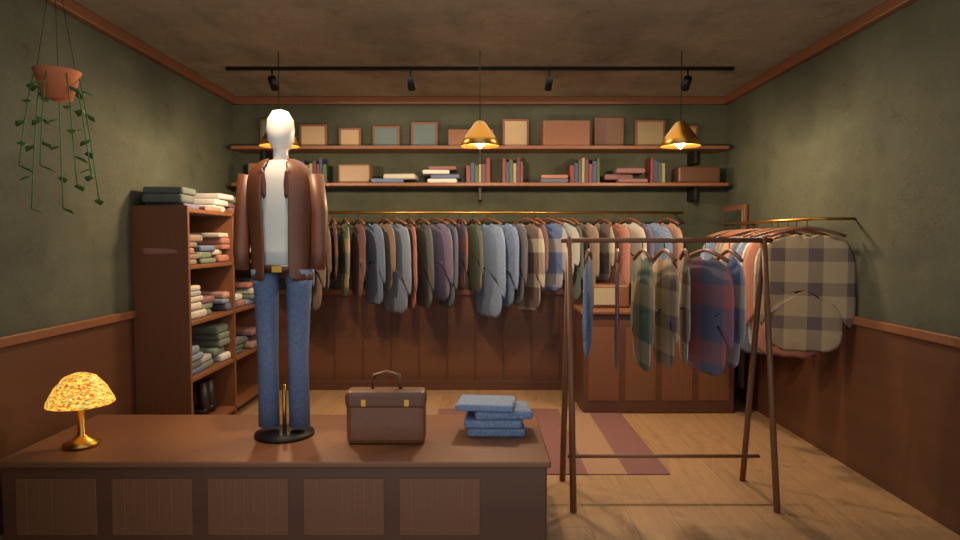
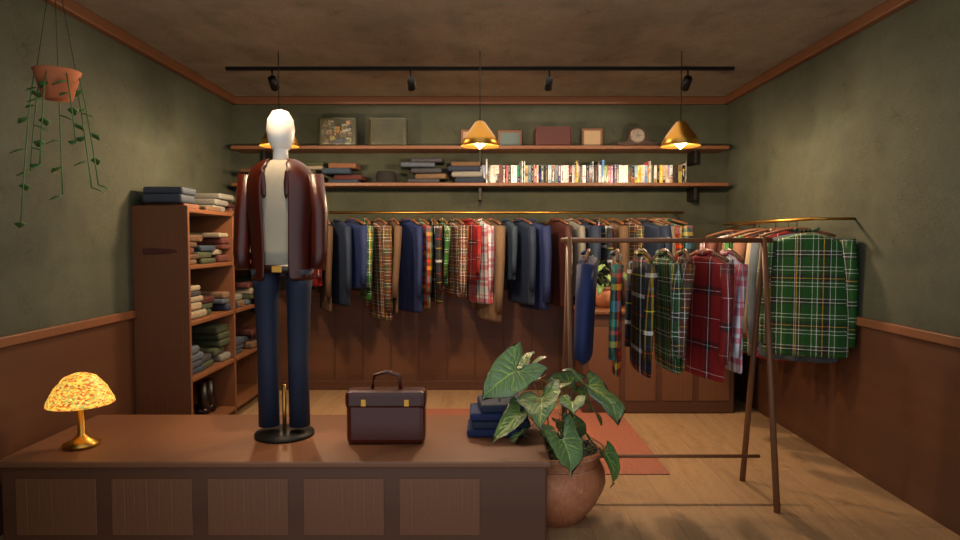
SHOP-REALISM-1112 溫特寶邸樣板 WIP：Poly Haven 掃描模型（收銀機、雕花鏡、皮箱、盆栽、舊書、座鐘）＋ambientCG 布料皮革材質組＋立體衣服（前後片、皺摺、袖子、領子）；cc0_fetch.py；概念圖／v1／現在 對照圖
Claude-Session: https://claude.ai/code/session_015BuNi47yLUt5PviELapMNj

diff --git a/docs/art-rebuild/second_ai/wip/tz_wente_win3d_1112/wip_v2/cc0_fetch.py b/docs/art-rebuild/second_ai/wip/tz_wente_win3d_1112/wip_v2/cc0_fetch.py
@@ -1,0 +1,53 @@
+"""CC0 素材下載（SHOP-REALISM-1112；LAWWW2-C 2026-11-12）：Poly Haven 掃描模型、ambientCG 材質組。
+使用者 11-12：「所有店面都是方塊…什麼都是塑膠方塊」→ 店內道具改用真的掃描模型、材質用整組貼圖（研究：docs/art-rebuild/second_ai/research/SHOP_REALISM_1112.md）。
+下載到快取（預設 ~/.cache/lawstudent_cc0，可用環境變數 CC0_CACHE 改），不進 repo：遊戲用的是烘焙後的成品 GLB。
+  ph_model(id, res='1k') → 那個模型的 .gltf 路徑（連同貼圖、.bin）
+  acg_material(id, res='1K') → {'color':…, 'normal':…, 'rough':…, 'ao':…}（有哪張就給哪張）
+授權：兩邊都是 CC0；用到的每一件在 LICENSES.md 登記（作者照 Poly Haven API 的 authors）。
+"""
+import os, json, urllib.request, zipfile, io
+
+CACHE = os.environ.get('CC0_CACHE', os.path.expanduser('~/.cache/lawstudent_cc0'))
+UA = {'User-Agent': 'lawstudent-asset-fetch/1.0'}
+
+def _get(url, timeout=60):
+    req = urllib.request.Request(url, headers=UA)
+    with urllib.request.urlopen(req, timeout=timeout) as r: return r.read()
+
+def ph_info(aid):
+    return json.loads(_get('https://api.polyhaven.com/info/' + aid))
+
+def ph_model(aid, res='1k'):
+    d = os.path.join(CACHE, 'polyhaven', aid, res); os.makedirs(d, exist_ok=True)
+    meta = os.path.join(d, 'files.json')
+    if not os.path.exists(meta):
+        files = json.loads(_get('https://api.polyhaven.com/files/' + aid)); open(meta, 'w').write(json.dumps(files))
+    files = json.load(open(meta)); fmt = 'gltf' if 'gltf' in files else 'blend'   # 少數模型只有 .blend
+    g = files[fmt][res][fmt]
+    main = os.path.join(d, os.path.basename(g['url']))
+    if not os.path.exists(main): open(main, 'wb').write(_get(g['url']))
+    for rel, f in g.get('include', {}).items():
+        p = os.path.join(d, rel); os.makedirs(os.path.dirname(p), exist_ok=True)
+        if not os.path.exists(p) or os.path.getsize(p) != f.get('size', -1): open(p, 'wb').write(_get(f['url']))
+    info = os.path.join(d, 'info.json')
+    if not os.path.exists(info): open(info, 'w').write(json.dumps(ph_info(aid)))
+    return main
+
+def acg_material(aid, res='1K'):
+    d = os.path.join(CACHE, 'ambientcg', aid + '_' + res); os.makedirs(d, exist_ok=True)
+    if not any(n.lower().endswith(('.jpg', '.png')) for n in os.listdir(d)):
+        z = zipfile.ZipFile(io.BytesIO(_get('https://ambientcg.com/get?file=%s_%s-JPG.zip' % (aid, res), timeout=120))); z.extractall(d)
+    out = {}
+    for n in os.listdir(d):
+        l = n.lower()
+        if 'color' in l: out['color'] = os.path.join(d, n)
+        elif 'normalgl' in l: out['normal'] = os.path.join(d, n)
+        elif 'roughness' in l: out['rough'] = os.path.join(d, n)
+        elif 'ambientocclusion' in l: out['ao'] = os.path.join(d, n)
+        elif 'displacement' in l: out['disp'] = os.path.join(d, n)
+    return out
+
+if __name__ == '__main__':
+    import sys
+    for a in sys.argv[1:]:
+        print(a, acg_material(a[4:]) if a.startswith('acg:') else ph_model(a))
